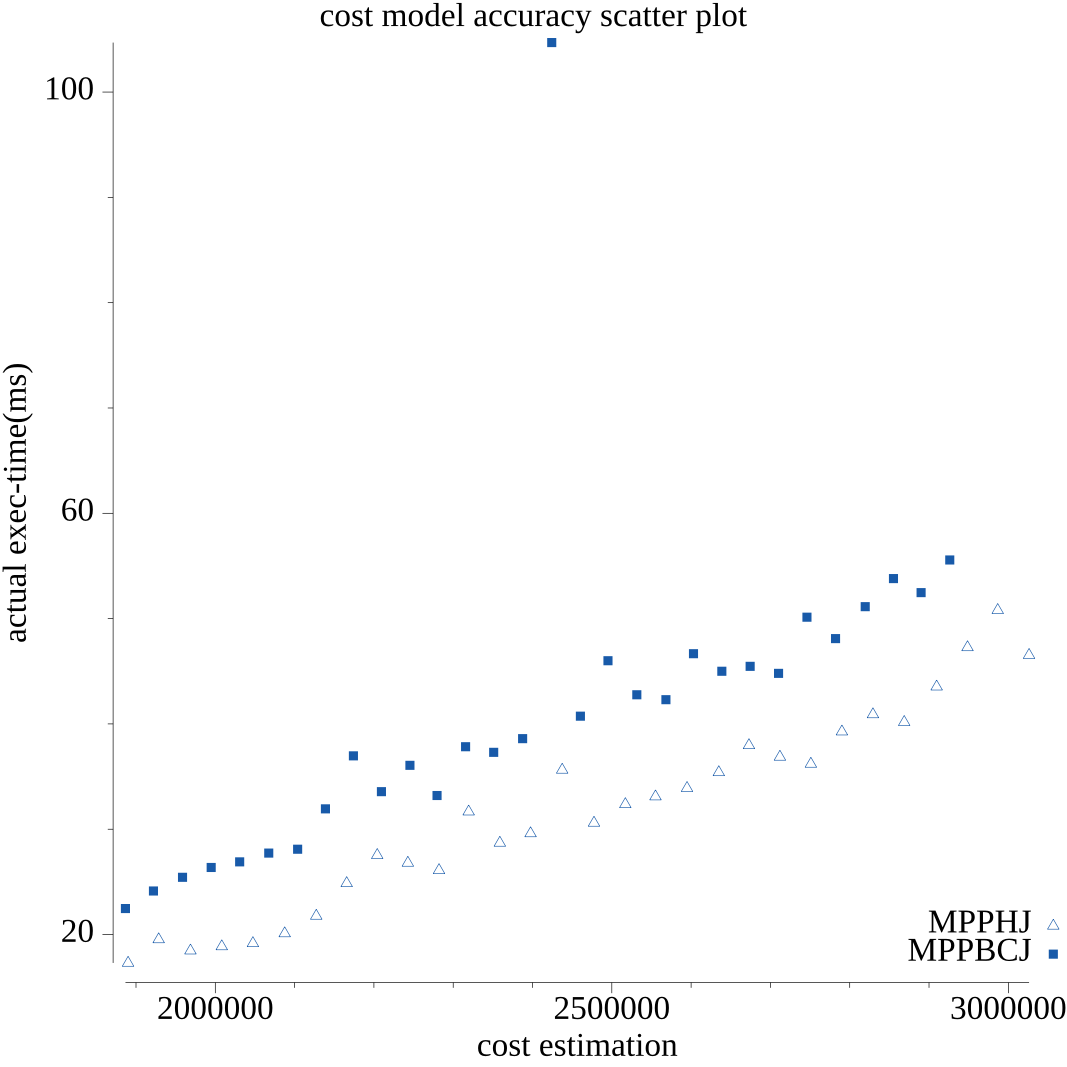
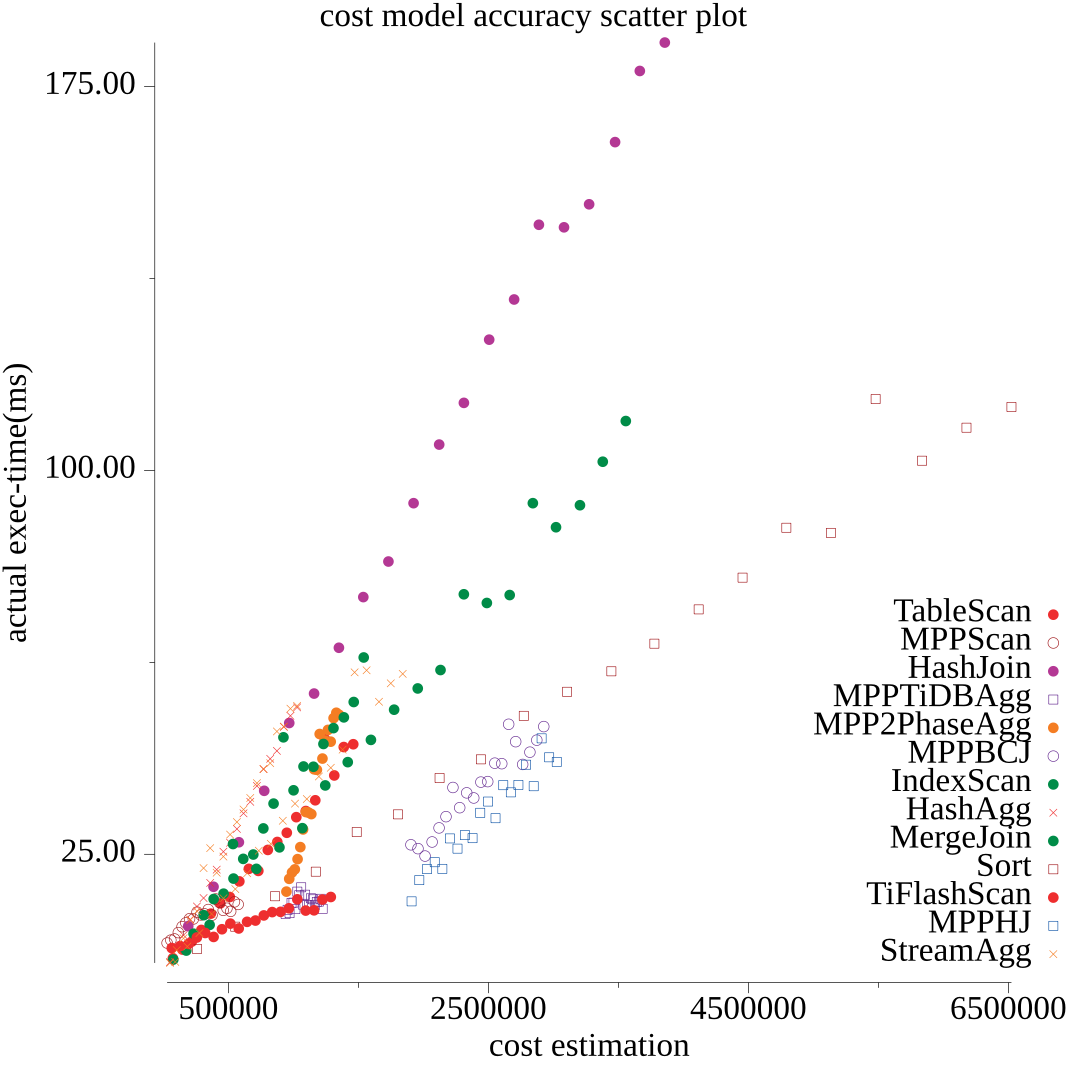
fixup

diff --git a/cost/eval_synthetic.go b/cost/eval_synthetic.go
@@ -23,21 +23,21 @@ func genSyntheticEvaluationQueries(ins tidb.Instance, db string, n int) Queries 
 	qs := make(Queries, 0, 1024)
 	
 	// TiKV Plans
-	//qs = append(qs, genSyntheticEvaluationTableScan(ins, n)...)
-	//qs = append(qs, genSyntheticEvaluationIndexScan(ins, n)...)
-	//qs = append(qs, genSyntheticEvaluationSort(ins, n)...)
-	//qs = append(qs, genSyntheticEvaluationStreamAgg(ins, n)...)
-	//qs = append(qs, genSyntheticEvaluationHashAgg(ins, n)...)
-	//qs = append(qs, genSyntheticEvaluationHashJoin(ins, n)...)
-	//qs = append(qs, genSyntheticEvaluationMergeJoin(ins, n)...)
+	qs = append(qs, genSyntheticEvaluationTableScan(ins, n)...)
+	qs = append(qs, genSyntheticEvaluationIndexScan(ins, n)...)
+	qs = append(qs, genSyntheticEvaluationSort(ins, n)...)
+	qs = append(qs, genSyntheticEvaluationStreamAgg(ins, n)...)
+	qs = append(qs, genSyntheticEvaluationHashAgg(ins, n)...)
+	qs = append(qs, genSyntheticEvaluationHashJoin(ins, n)...)
+	qs = append(qs, genSyntheticEvaluationMergeJoin(ins, n)...)
 	//qs = append(qs, genSyntheticEvaluationIndexLookup(ins, n)...)
 	//qs = append(qs, genSyntheticEvaluationIndexJoin(ins, n)...)
 
 	// TiFlash Plans
-	//qs = append(qs, genSyntheticEvaluationMPPScan(ins, n)...)
-	//qs = append(qs, genSyntheticEvaluationTiFlashScan(ins, n)...)
-	//qs = append(qs, genSyntheticEvaluationMPPTiDBAgg(ins, n)...)
-	//qs = append(qs, genSyntheticEvaluationMPP2PhaseAgg(ins, n)...)
+	qs = append(qs, genSyntheticEvaluationMPPScan(ins, n)...)
+	qs = append(qs, genSyntheticEvaluationTiFlashScan(ins, n)...)
+	qs = append(qs, genSyntheticEvaluationMPPTiDBAgg(ins, n)...)
+	qs = append(qs, genSyntheticEvaluationMPP2PhaseAgg(ins, n)...)
 	qs = append(qs, genSyntheticEvaluationMPPHJ(ins, n)...)
 	qs = append(qs, genSyntheticEvaluationMPPBCJ(ins, n)...)
 	return qs

diff --git a/cost/costeval.go b/cost/costeval.go
@@ -34,7 +34,7 @@ func CostEval() {
 		//{"tpch1g", "tpch", "calibrated", 30, 2, 2000},
 		//{"synthetic", "synthetic", "original", 10, 1, 3000},
 		//{"synthetic", "synthetic", "calibrated", 10, 1, 3000},
-		{"synthetic", "synthetic", "calibrating", 30, 3, 3000},
+		{"synthetic", "synthetic", "calibrating", 20, 2, 3000},
 	}
 
 	for _, opt := range opts {
